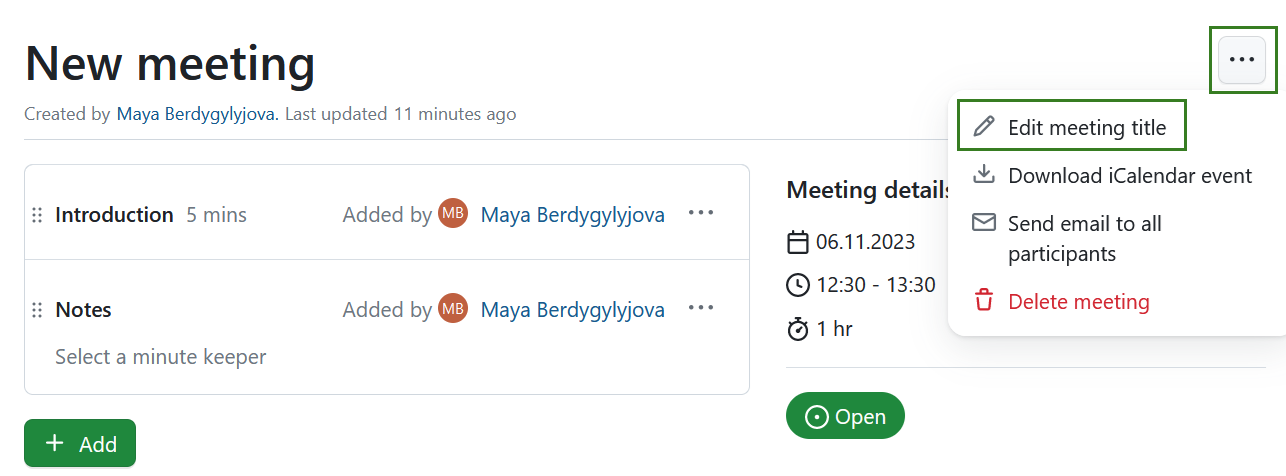
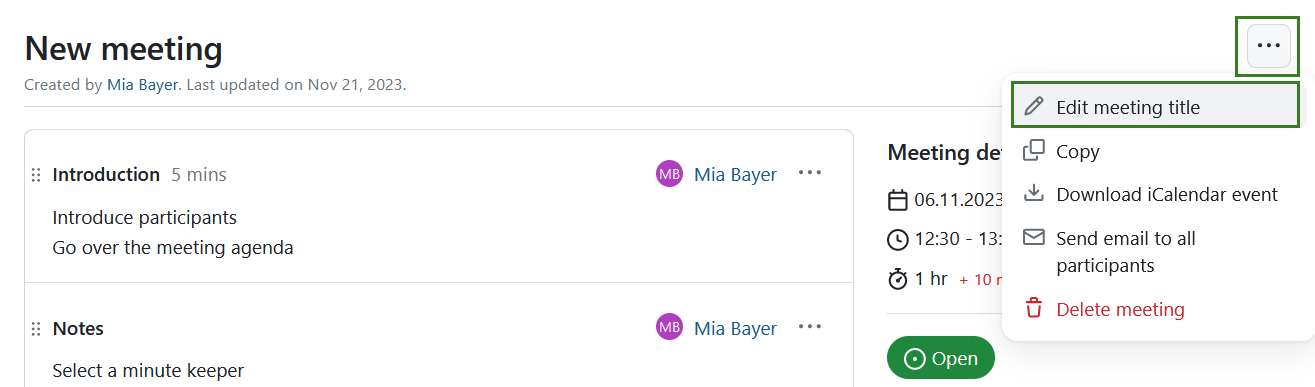
Adding 13.4 documentation on copying dynamic meetings
[#53044] 13.4 Documentation: copying dynamic meetings

https://community.openproject.org/work_packages/53044

diff --git a/docs/user-guide/meetings/dynamic-meetings/README.md b/docs/user-guide/meetings/dynamic-meetings/README.md
@@ -13,19 +13,20 @@ Introduced in OpenProject 13.1, dynamic meetings offer easier meeting management
 > **Note:** The **Meetings module needs to be activated** in the [Project Settings](../../projects/project-settings/modules/) to be able to create and edit meetings.
 
 
-| Topic                                                        | Content                                           |
-| ------------------------------------------------------------ | ------------------------------------------------- |
-| [Meetings in OpenProject](#meetings-in-openproject)          | How to open meetings in OpenProject.              |
-| [Create a new meeting](#create-a-new-meeting)                | How to create a new meeting in OpenProject.       |
-| [Edit a meeting](#edit-a-meeting)                            | How to edit an existing meeting.                  |
-| [Add a work package to the agenda](#add-a-work-package-to-the-agenda) | How to add a work package to a meeting agenda.    |
-| [Create or edit the meeting agenda](#create-or-edit-the-meeting-agenda) | How to create or edit the agenda.                 |
-| [Add meeting participants](#add-meeting-participants)        | How to invite people to a meeting.                |
-| [Send email to all participants](#send-email-to-all-participants) | How to send an email to all meeting participants. |
-| [Download a meeting as an iCalendar event](#download-a-meeting-as-an-icalendar-event) | How to download a meeting as an iCalendar event.  |
-| [Close a meeting](#close-a-meeting)                          | How to close a meeting in OpenProject.            |
-| [Re-open a meeting](#re-open-a-meeting)                      | How to re-open a meeting in OpenProject.          |
-| [Delete a meeting](#delete-a-meeting)                        | How to delete a meeting in OpenProject.           |
+| Topic                                                        | Content                                                    |
+| ------------------------------------------------------------ | ---------------------------------------------------------- |
+| [Meetings in OpenProject](#meetings-in-openproject)          | How to open meetings in OpenProject.                       |
+| [Create a new meeting](#create-a-new-meeting)                | How to create a new meeting in OpenProject.                |
+| [Edit a meeting](#edit-a-meeting)                            | How to edit an existing meeting.                           |
+| [Add a work package to the agenda](#add-a-work-package-to-the-agenda) | How to add a work package to a meeting agenda.             |
+| [Create or edit the meeting agenda](#create-or-edit-the-meeting-agenda) | How to create or edit the agenda.                          |
+| [Add meeting participants](#add-meeting-participants)        | How to invite people to a meeting.                         |
+| [Send email to all participants](#send-email-to-all-participants) | How to send an email to all meeting participants.          |
+| [Download a meeting as an iCalendar event](#download-a-meeting-as-an-icalendar-event) | How to download a meeting as an iCalendar event.           |
+| [Close a meeting](#close-a-meeting)                          | How to close a meeting in OpenProject.                     |
+| [Re-open a meeting](#re-open-a-meeting)                      | How to re-open a meeting in OpenProject.                   |
+| [Copy a meeting](#copy-a-meeting)                            | How to copy a meeting in OpenProject (recurring meetings). |
+| [Delete a meeting](#delete-a-meeting)                        | How to delete a meeting in OpenProject.                    |
 
 ## Meetings in OpenProject
 
@@ -78,11 +79,11 @@ In order to edit the title of the meeting select the dropdown menu behind the th
 
 After creating a meeting, you can set up a **meeting agenda**.
 
-You can add items to an agenda or directly link to existing work packages by selecting the desired option under the green **Add** button. 
+You can add items to an agenda or directly link to existing work packages by selecting the desired option under the green **Add** button. You can add notes and attachments to every agenda item.
 
 ![The add button with two choices: agenda item or work package](openproject_dynamic_meetings_add_agenda_item.png)
 
-After you have finalized the agenda, you can always edit the agenda items, add notes, move an item up or down or delete it. Clicking on the three dots on the right edge of each agenda item will display a menu with these options.
+After you have finalized the agenda, you can always edit the agenda items, add notes, move an item up or down or delete it. Clicking on the three dots on the right edge of each agenda item will display a menu with these options. 
 
 ![Edit agenda in OpenProject dynamic meetings](openproject_dynamic_meetings_edit_agenda.png)
 
@@ -141,6 +142,18 @@ Clicking on the **Close meeting** after the meeting is completed with lock the c
 Once a meeting has been closed, it can no longer be edited. Project members with the permission to edit and close meetings will, however, see a **Re-open meeting** option. Clicking on this re-opens a meeting and allows further editing.
 
 ![Re-open a meeting in OpenProject](openproject_dynmic_meetings_reopen_meeting.png)
+
+## Copy a meeting
+
+You can copy an existing meeting. This is useful if you have recurring meetings. To copy a meeting, click on the three dots in the top right corner and select **Copy**. 
+
+![Copy a dynamic meeting in OpenProject](openproject_dynamic_meetings_copy_meeting.png)
+
+A screen will open, which will allow you adjust the name, time, location and further details of the copied meeting. You also have an option of copying the agenda. Don't forget to **Save** the copied meeting.
+
+![Edit details of a copied dynamic meeting in OpenProject](openproject_dynamic_meetings_copy_meeting_details.png)
+
+
 
 ## Delete a meeting
 
